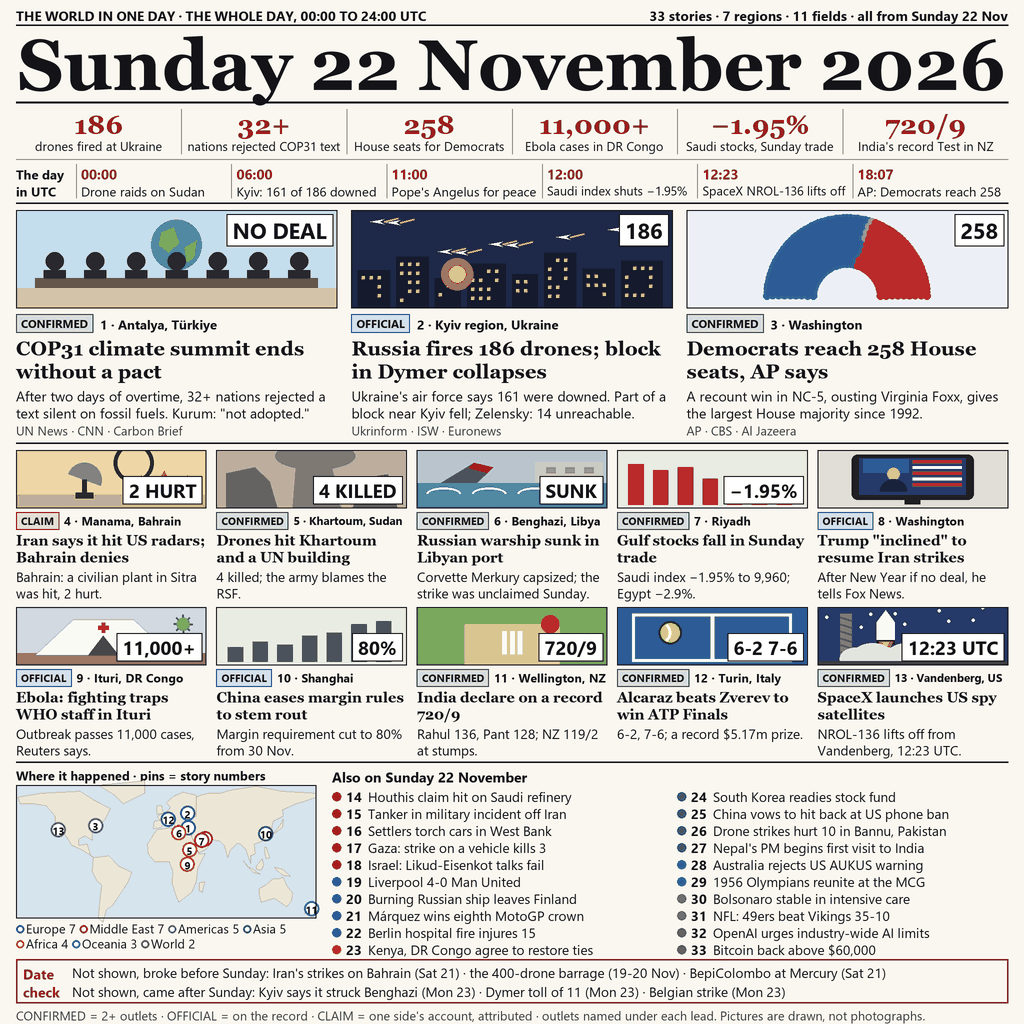
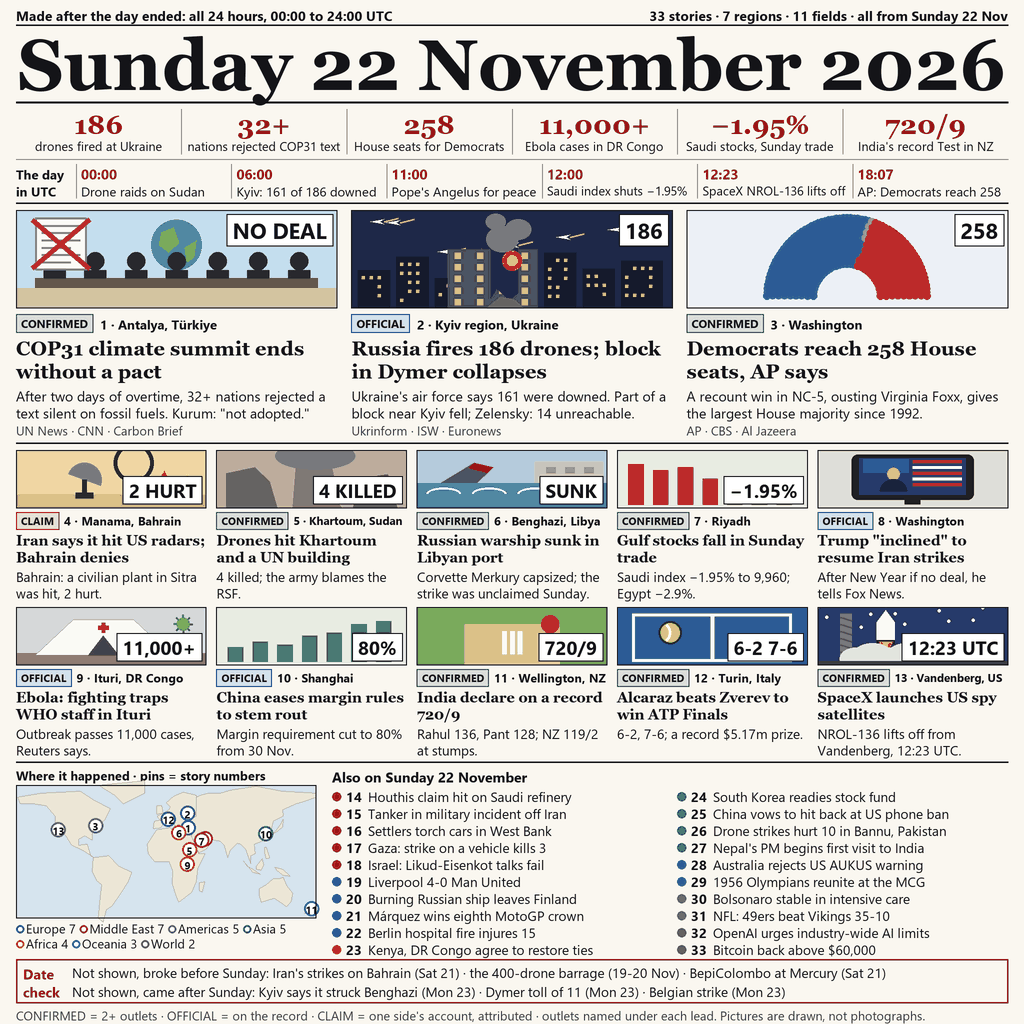
v6: say on the page that it covers the whole day; Dymer block and rejected draft drawn

diff --git a/art/icons.py b/art/icons.py
@@ -63,9 +63,26 @@ def drones(d, x0, y0, x1, y1, k):
         d.polygon([(cx - s, cy), (cx + s, cy - s * 0.35), (cx + s * 0.4, cy), (cx + s, cy + s * 0.35)], fill=WHITE)
         d.line([cx + s, cy, cx + s * 3, cy - s * 0.5], fill=(255, 170, 80), width=int(2 * k))
     city(d, x0, y0, x1, y1, k)
-    fx, fy = p(0.33, 0.66)
-    d.ellipse([fx - 16 * k, fy - 16 * k, fx + 16 * k, fy + 16 * k], fill=ORANGE)
-    d.ellipse([fx - 8 * k, fy - 8 * k, fx + 8 * k, fy + 8 * k], fill=YELLOW)
+    # the hit block: a five-storey building with one section collapsed, smoke above
+    bx0, by0 = p(0.30, 0.40)
+    bx1, by1 = p(0.58, 1.0)
+    d.rectangle([bx0, by0, bx1, by1], fill=(70, 74, 88))
+    fl = (by1 - by0) / 5
+    for r in range(5):
+        for cc in range(4):
+            wx = bx0 + (cc + 0.3) * (bx1 - bx0) / 4
+            wy = by0 + (r + 0.3) * fl
+            d.rectangle([wx, wy, wx + 6 * k, wy + 6 * k], fill=YELLOW)
+    gx0, gx1 = bx0 + (bx1 - bx0) * 0.48, bx0 + (bx1 - bx0) * 0.78
+    d.polygon([(gx0, by0 - 1), (gx1, by0 - 1), (gx1, by1 - fl * 1.2), (gx1 - 8 * k, by1 - fl * 0.6),
+               (gx0 + 6 * k, by1 - fl * 1.6), (gx0, by1 - fl * 0.8)], fill=NIGHT)
+    d.polygon([(gx0 - 4 * k, by1), (gx0 + 10 * k, by1 - fl * 0.9), (gx1 - 4 * k, by1 - fl * 0.7), (gx1 + 6 * k, by1)], fill=(110, 104, 98))
+    for j, (sx, sy, r) in enumerate(((0.47, 0.30, 16), (0.52, 0.20, 13), (0.45, 0.12, 10))):
+        cx, cy = p(sx, sy)
+        d.ellipse([cx - r * k, cy - r * 0.8 * k, cx + r * k, cy + r * 0.8 * k], fill=(120, 120, 130))
+    fx, fy = p(0.50, 0.52)
+    d.ellipse([fx - 10 * k, fy - 10 * k, fx + 10 * k, fy + 10 * k], fill=ORANGE)
+    d.ellipse([fx - 5 * k, fy - 5 * k, fx + 5 * k, fy + 5 * k], fill=YELLOW)
 
 
 def summit(d, x0, y0, x1, y1, k):
@@ -86,6 +103,14 @@ def summit(d, x0, y0, x1, y1, k):
         d.rectangle([hx - 11 * k, hy - 8 * k, hx + 11 * k, hy], fill=DARK)
     a, b = p(0, 0.80), p(1, 1)
     d.rectangle([a[0], a[1], b[0], b[1]], fill=(210, 196, 168))
+    # the rejected draft: a page of text struck through
+    a, b = p(0.06, 0.08), p(0.22, 0.62)
+    d.rectangle([a[0], a[1], b[0], b[1]], fill=WHITE, outline=GREY, width=int(2 * k))
+    for j in range(6):
+        u, v = p(0.08, 0.16 + j * 0.075), p(0.20 - 0.03 * (j % 2), 0.16 + j * 0.075)
+        d.line([u, v], fill=GREY, width=int(2 * k))
+    d.line([p(0.05, 0.10), p(0.23, 0.60)], fill=RED, width=int(5 * k))
+    d.line([p(0.23, 0.10), p(0.05, 0.60)], fill=RED, width=int(5 * k))
 
 
 def radar(d, x0, y0, x1, y1, k):

diff --git a/art/content.py b/art/content.py
@@ -1,6 +1,6 @@
 """Every word on the page. Facts and sources: research/sources-2026-11-22.md."""
 
-TOP_LEFT = "THE WORLD IN ONE DAY · THE WHOLE DAY, 00:00 TO 24:00 UTC"
+TOP_LEFT = "Made after the day ended: all 24 hours, 00:00 to 24:00 UTC"
 TOP_RIGHT = "33 stories · 7 regions · 11 fields · all from Sunday 22 Nov"
 DATE = "Sunday 22 November 2026"
 SUBLINE = ""
@@ -111,5 +111,4 @@ DATECHECK_NOT_YET = ("Not shown, came after Sunday: Kyiv says it struck Benghazi
                      "· Belgian strike (Mon 23)")
 LEGEND = ("CONFIRMED = 2+ outlets · OFFICIAL = on the record · CLAIM = one side's account, attributed · "
           "outlets named under each lead. Pictures are drawn, not photographs.")
-
 COLORS = 128
